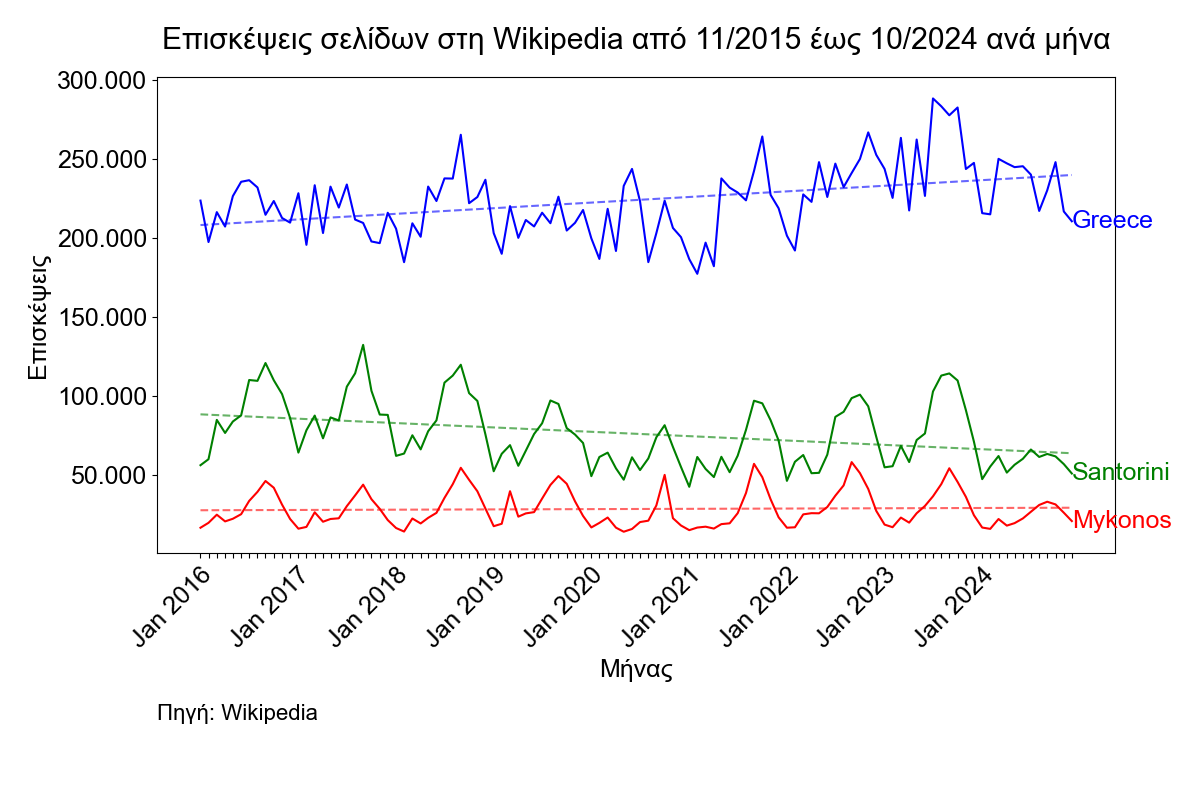
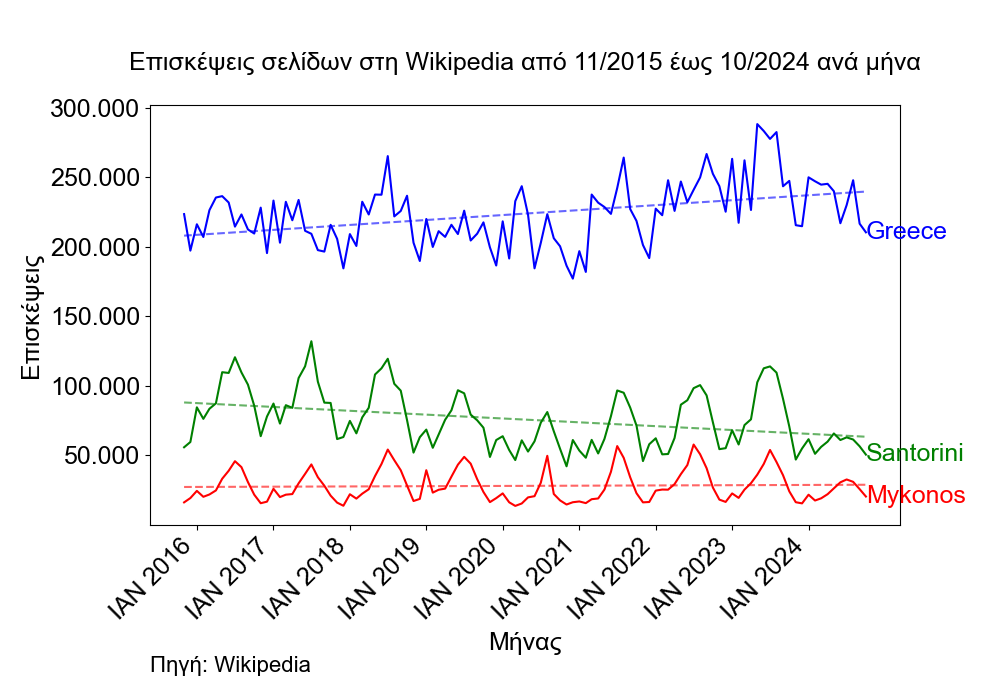
111

diff --git a/time_series_greece_mykonos_santorini.py b/time_series_greece_mykonos_santorini.py
@@ -54,17 +54,24 @@ for i, label in enumerate(series_labels):
     plt.plot(df.index, trendline, linestyle="--", color=colors[i], alpha=0.6)
 
 # Customize chart
-plt.title("Επισκέψεις σελίδων στη Wikipedia από 11/2015 έως 10/2024 ανά μήνα", pad=20)
+plt.title("Επισκέψεις σελίδων στη Wikipedia από 11/2015 έως 10/2024 ανά μήνα", pad=25, fontsize=18)
 plt.xlabel("Μήνας", labelpad=5)
 plt.ylabel("Επισκέψεις", labelpad=5)
 
 # Format x-axis labels to show only January labels in Greek
 x_labels = [dt.strftime("%b %Y") if dt.month == 1 else "" for dt in df.index]
-plt.xticks(df.index, x_labels, rotation=45, ha="right")
+plt.xticks(
+    ticks=df.index[df.index.month == 1],  # Only include indices where the month is January
+    labels=[f"ΙAN {dt.year}" for dt in df.index if dt.month == 1],
+    rotation=45,
+    ha="right",
+    fontsize=18
+)
 plt.gca().get_yaxis().set_major_formatter(plt.FuncFormatter(lambda x, _: f"{int(x):,}".replace(",", ".")))
 
 # Remove the legend
 plt.legend().remove()
+plt.subplots_adjust(left=0.15, bottom=0.25, right=0.90, top=0.85)
 
 # Add source text
 plt.text(
@@ -73,7 +80,7 @@ plt.text(
 
 # Save the main image
 main_image_path = "greece_mykonos_santorini_wikipedia_pageviews_timeseries.png"
-plt.tight_layout()
+
 plt.savefig(main_image_path)
 plt.close()
 
